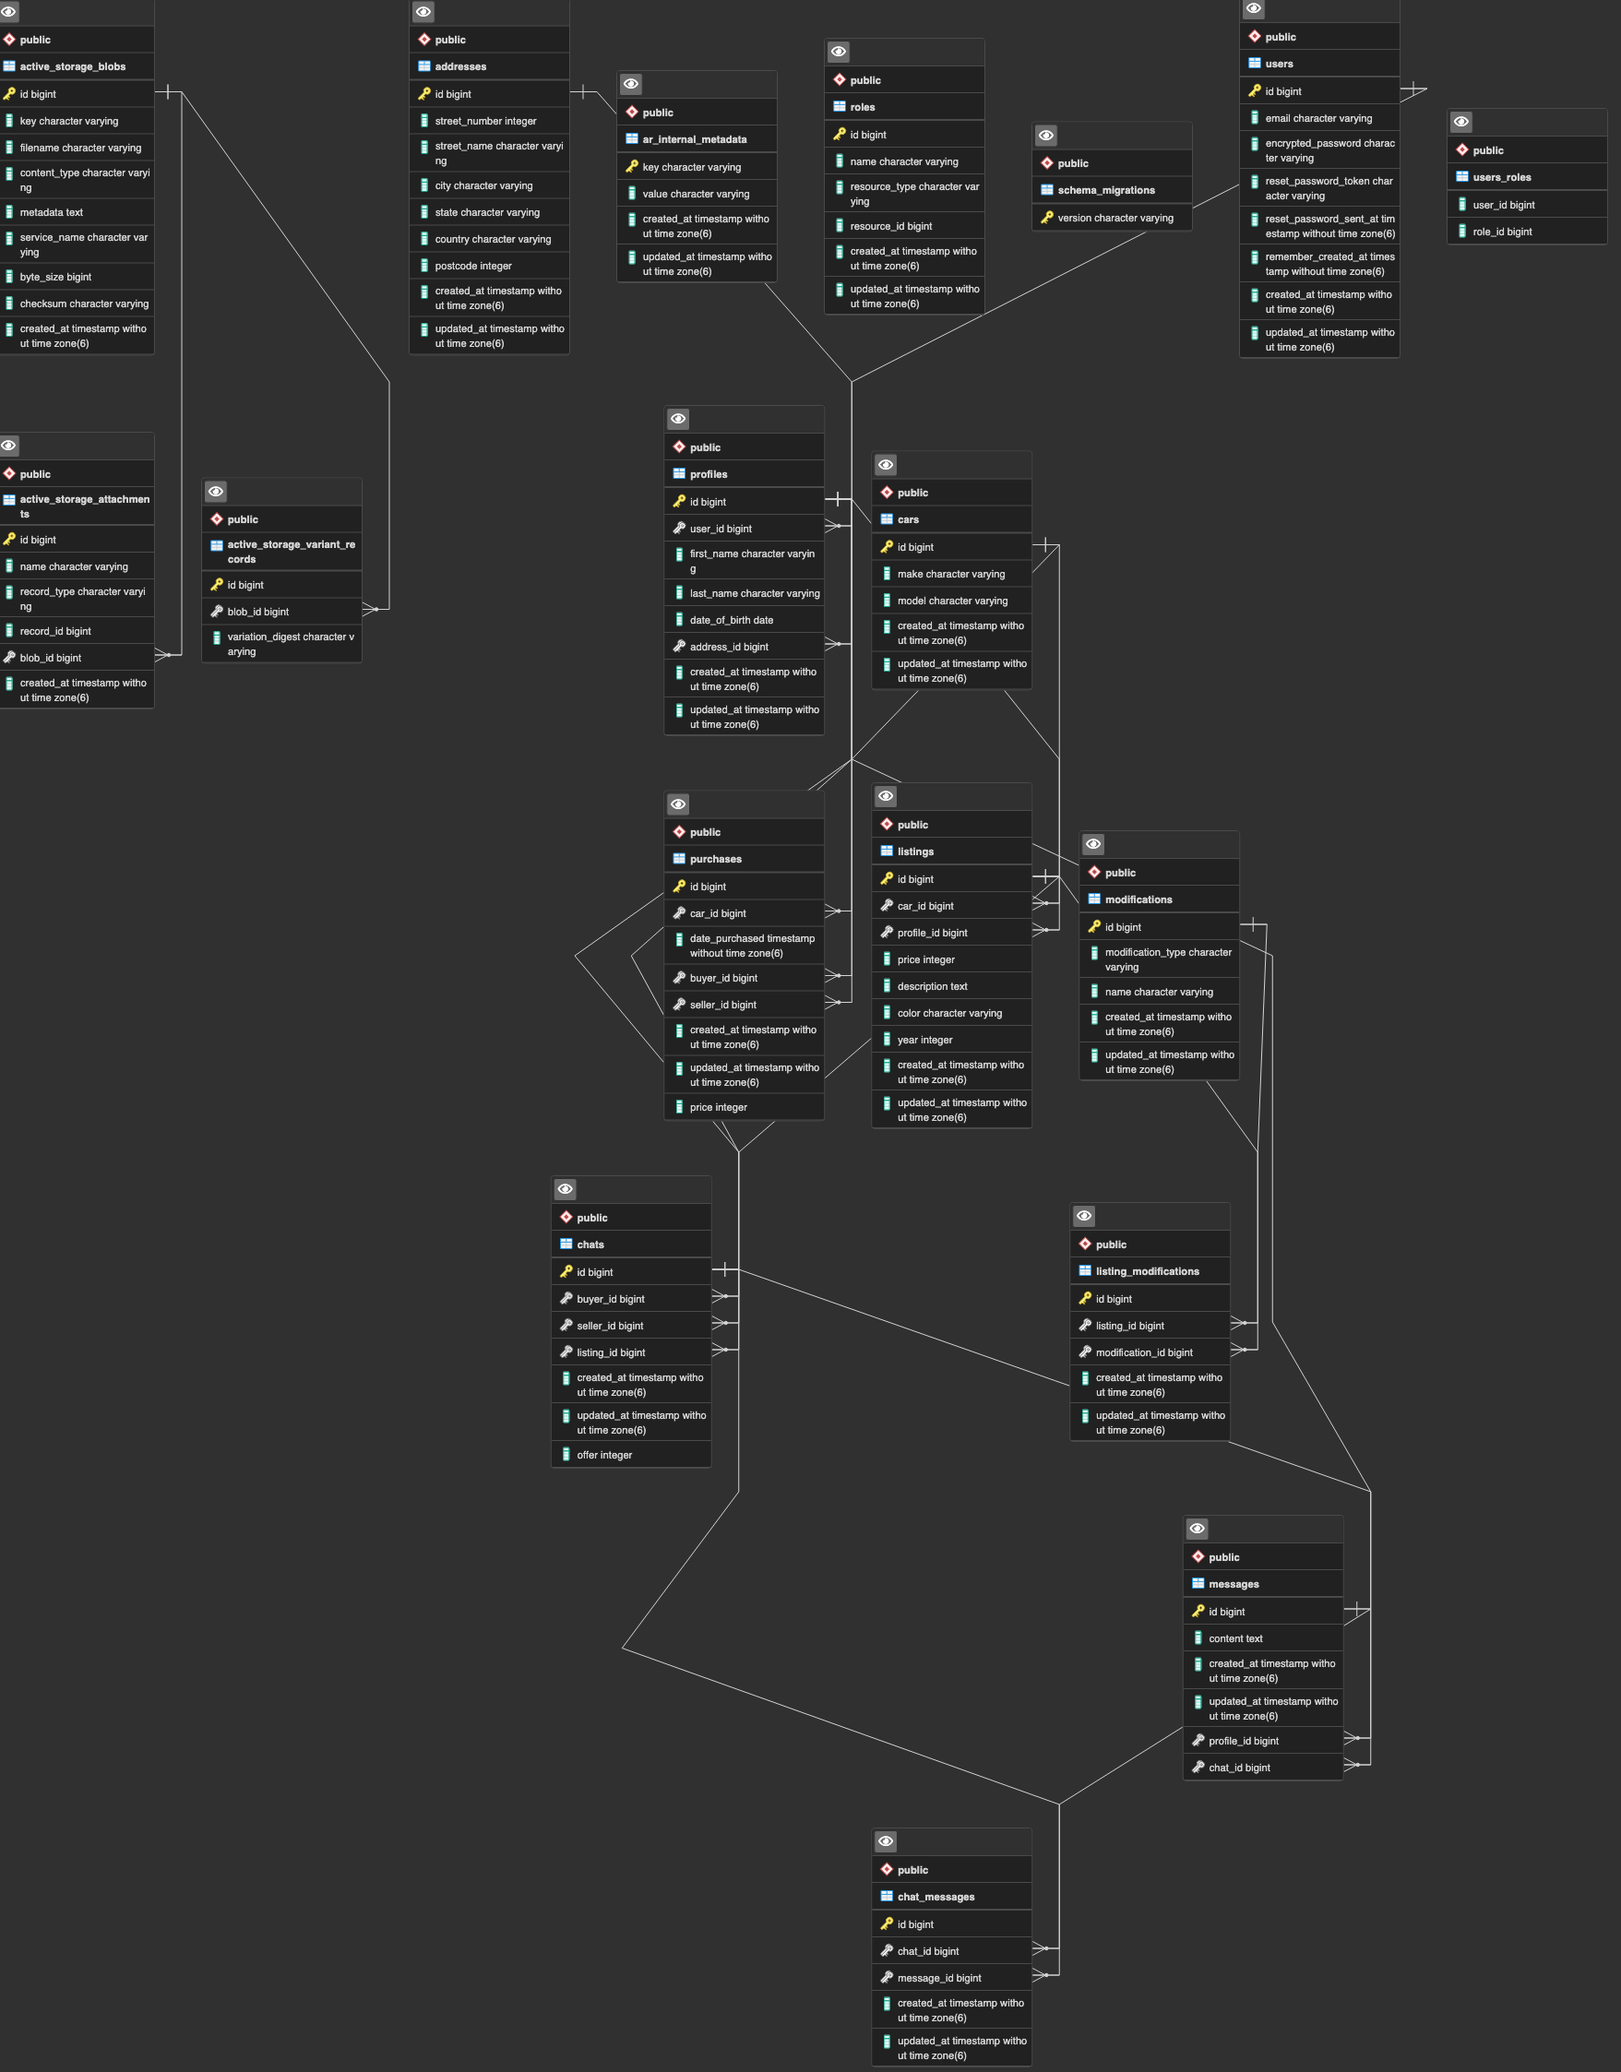
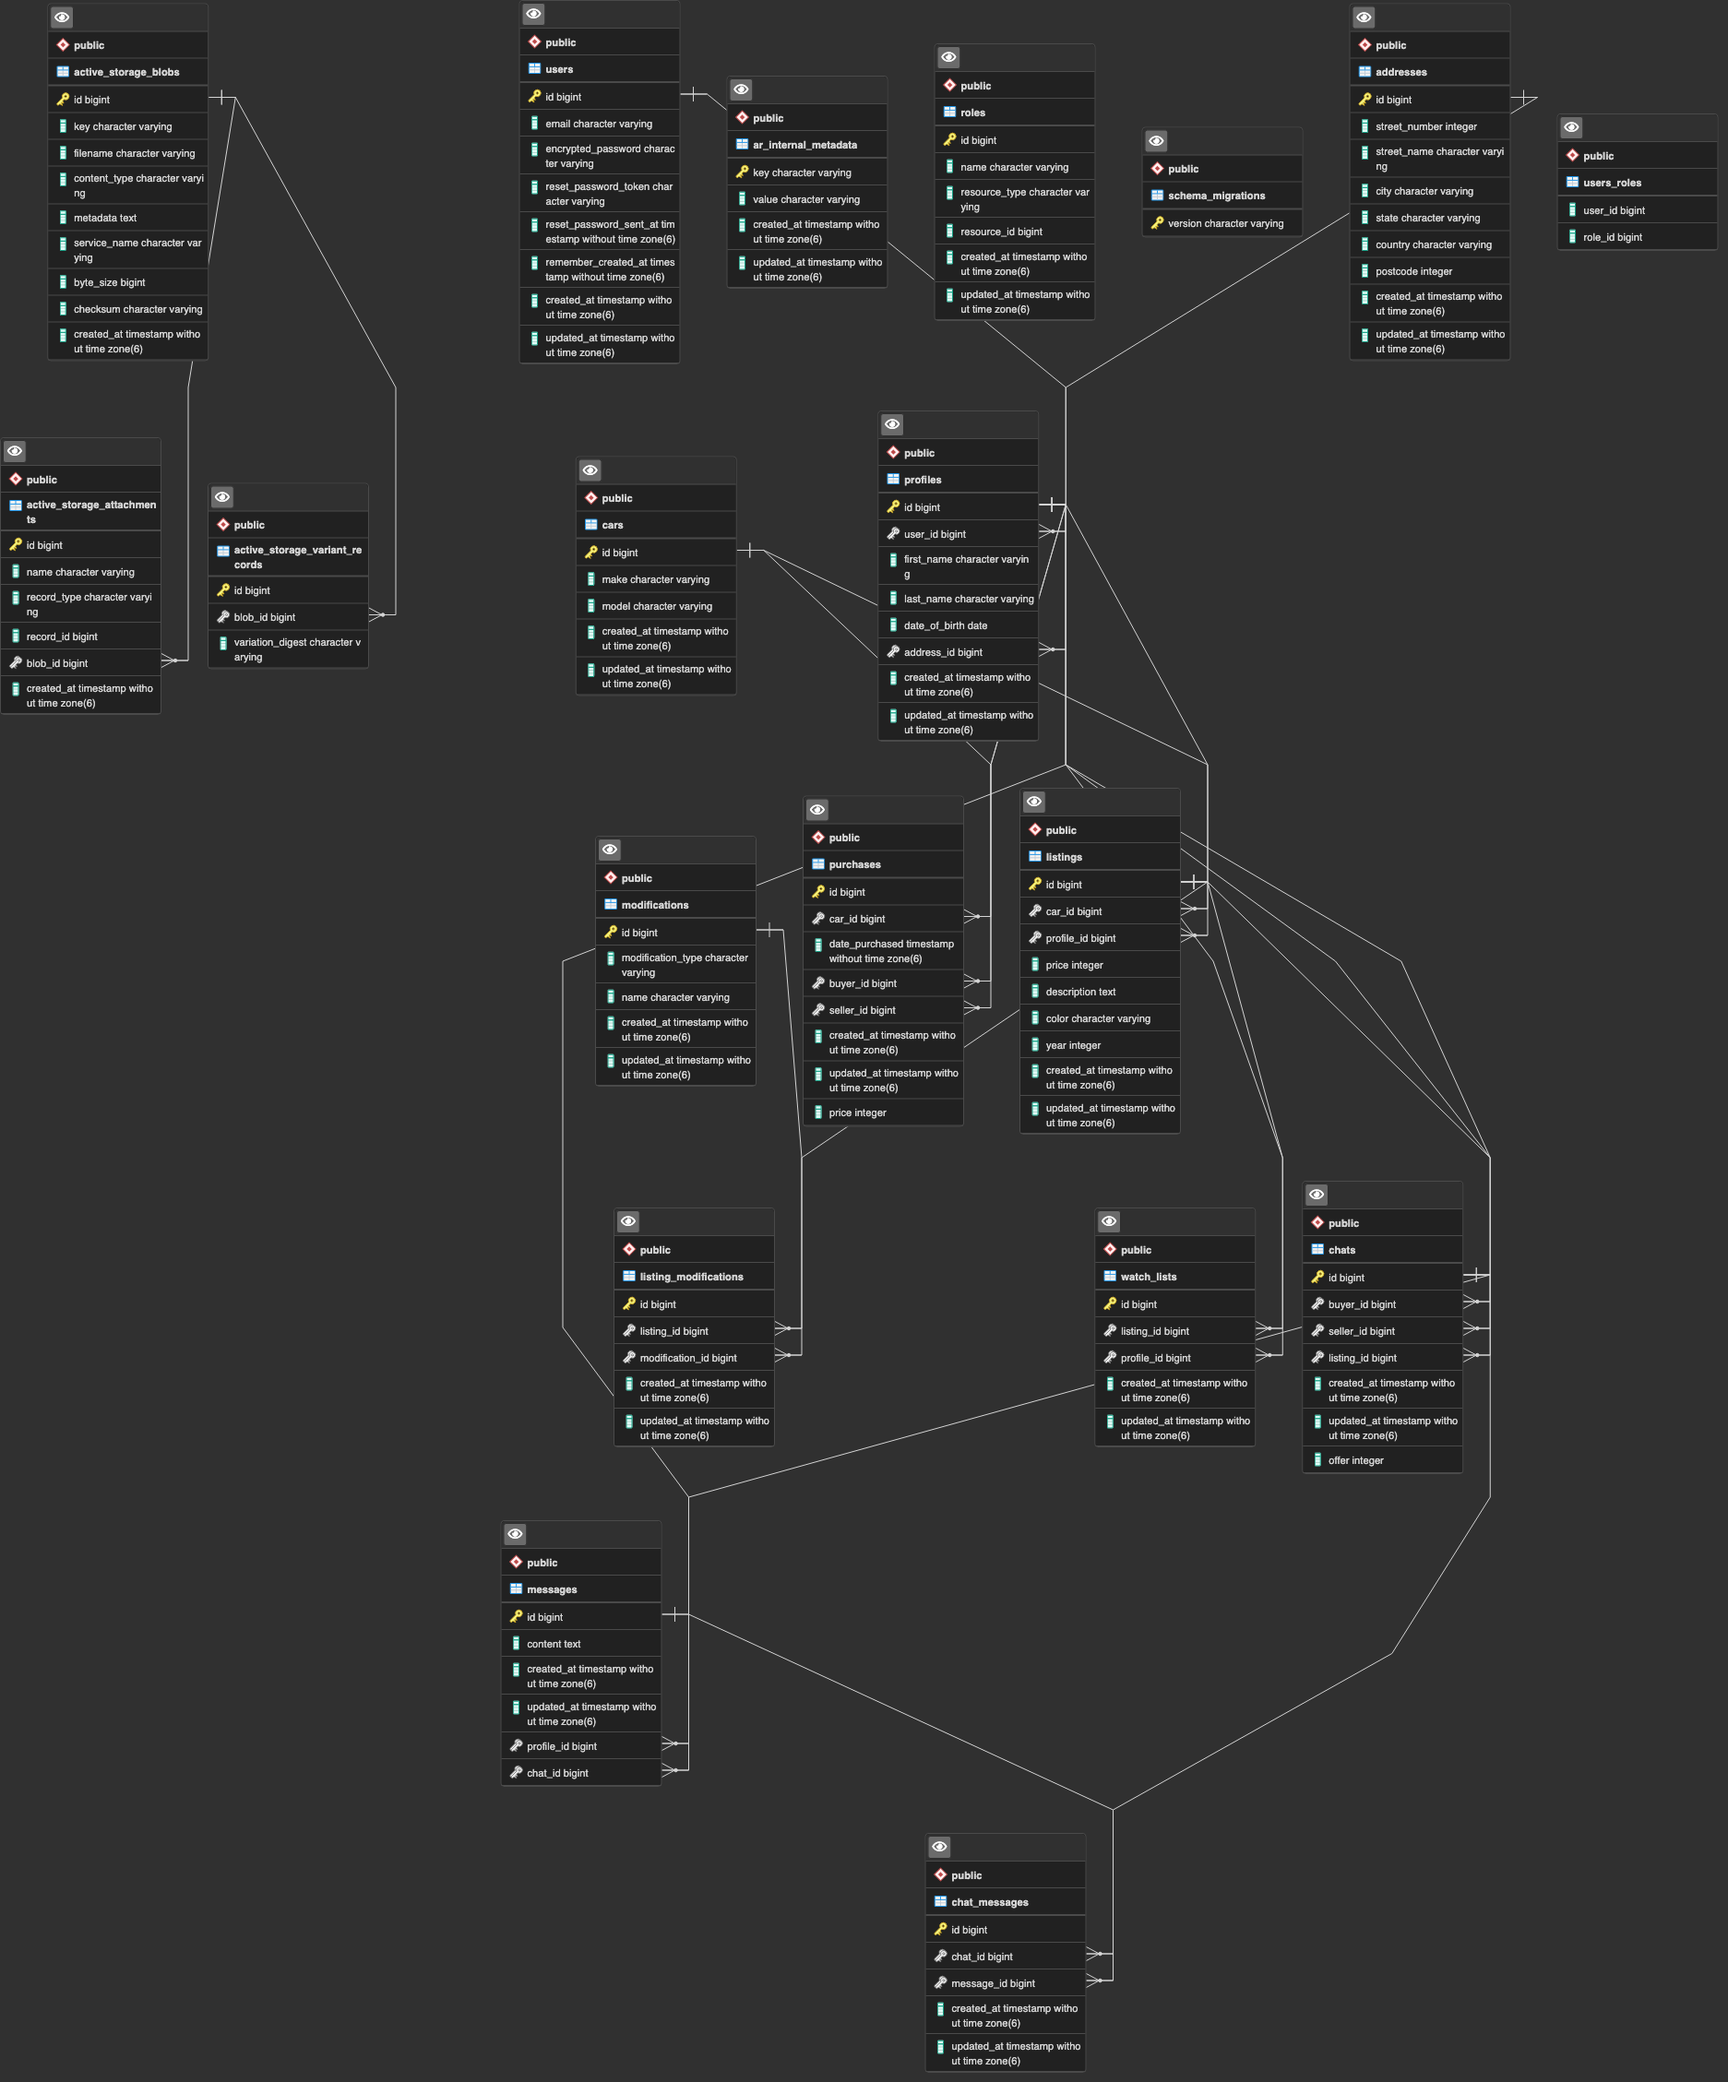
README changes

diff --git a/README.md b/README.md
@@ -73,6 +73,8 @@ https://github.com/CodyCodes95/CodyPartington_T2A2/projects/2
 
 **R13. Wireframes for your app**
 
+located at /src/modified-rides-wireframes (PDF and Balsamic file)
+
 **R14. An ERD for your app**
 
 ![url](/src/modified-rides-erd.png)
@@ -87,17 +89,32 @@ As Devise is used to handle user registrations, a user's profile is abstracted a
 
 The chat entity is what the app uses to create a conversation between a buyer and seller. A chat references a buyer and seller via a profile ID, and a listing by a listing ID. Messages are abstracted into a separate entity, which contain the content of the message and the sender via a profile ID. A message belongs to the chat which it was created in.
 
+The watch list entity creates a watch list item and links it to the profile ID of who is watching it, and the listing ID of which listing is being watched.
+
 **R16. Detail any third party services that your app will use**
 
 <ul>
 <li>Cloudinary is utilised for upload of images for car listings, user avatars, and attachments in chat messages. Cloudinary also manages compression of the images and returning the correct sizes depending on the view.</li>
 
 <li>Heroku is utilised for hosting the deployed application. Heroku also stores the Postgres Database used.</li>
+
 </ul>
 
 **R17. Describe your projects models in terms of the relationships (active record associations) they have with each other**
 
+Each model in the application has a number of relationships used to ensure that each model that is related to one another can access the relevant information that it needs to function from another model. Looking at our *listings* and *profiles* models as examples, as they are what most of the application revolves around, and a lot of other models are dependant on them. A listing *belongs to* a profile, and a profile *has many* listings. 
+
+The *belongs to* relationship being applied to listing in relation to a profile allows for a few things. Firstly it ensures that a listing cannot be created without a profile. That is, a car listing must be posted by someone. It would make no sense for a listing to be posted by no one, so this relationship must exist. With this relationship being declared, at the time of a creation of a listing, the profile ID must be provided as a mandatory field, which allows for the correct association between profile and listing to be made. This relationship also allows Active Record to access the profile of any given listing. If we want to find who the profile was for any given listing, this relationship allows us to get that information.
+
+the *has many* relationship being applied to profile in relation to listings also allow for certain functionality. Unlike a *belongs to* relationship, a listing is not a mandatory field in order for a profile to be created. This makes sense because a profile does not *need* to have a listing to exist, unlike a listing needing a profile. Users are welcome to use a profile to simply browse or buy cars, and creating a listing at the time of creating a profile does is not necessary. Similar to the *belongs to* relationship, *has many* gives us access to all the listings of any given profile.
+
+The *has many through* relationship is utilised between our listing and modification models. This relationship is used in Active Record to represent a many to many relationship. The has many through relationship takes our models which have a many to many relationship (listings, modifications) and connect them to a joining table calling Listing_modifications. As many cars share the same modifications, this relationship is used to avoid duplicate data for modifications when more than one listing shares a modification.
+
+The *has one attached* and *has many attached* relationship is utilised between some of our models as well. Looking at listings as an example,  a *has many attached :car_images* association allows us to pass one or more files through as *car_images*, where rails will then know to use Active Storage to store the files wherever specified (in our case, Cloudinary) and associate that image or images with that listing. This association allows us to find any *car images* associated with a particular listing.
+
 **R18. Discuss the database relations to be implemented in your application**
+
+A number of relations are used in the database for the application, 
 
 **R19. Provide your database schema design**
 
